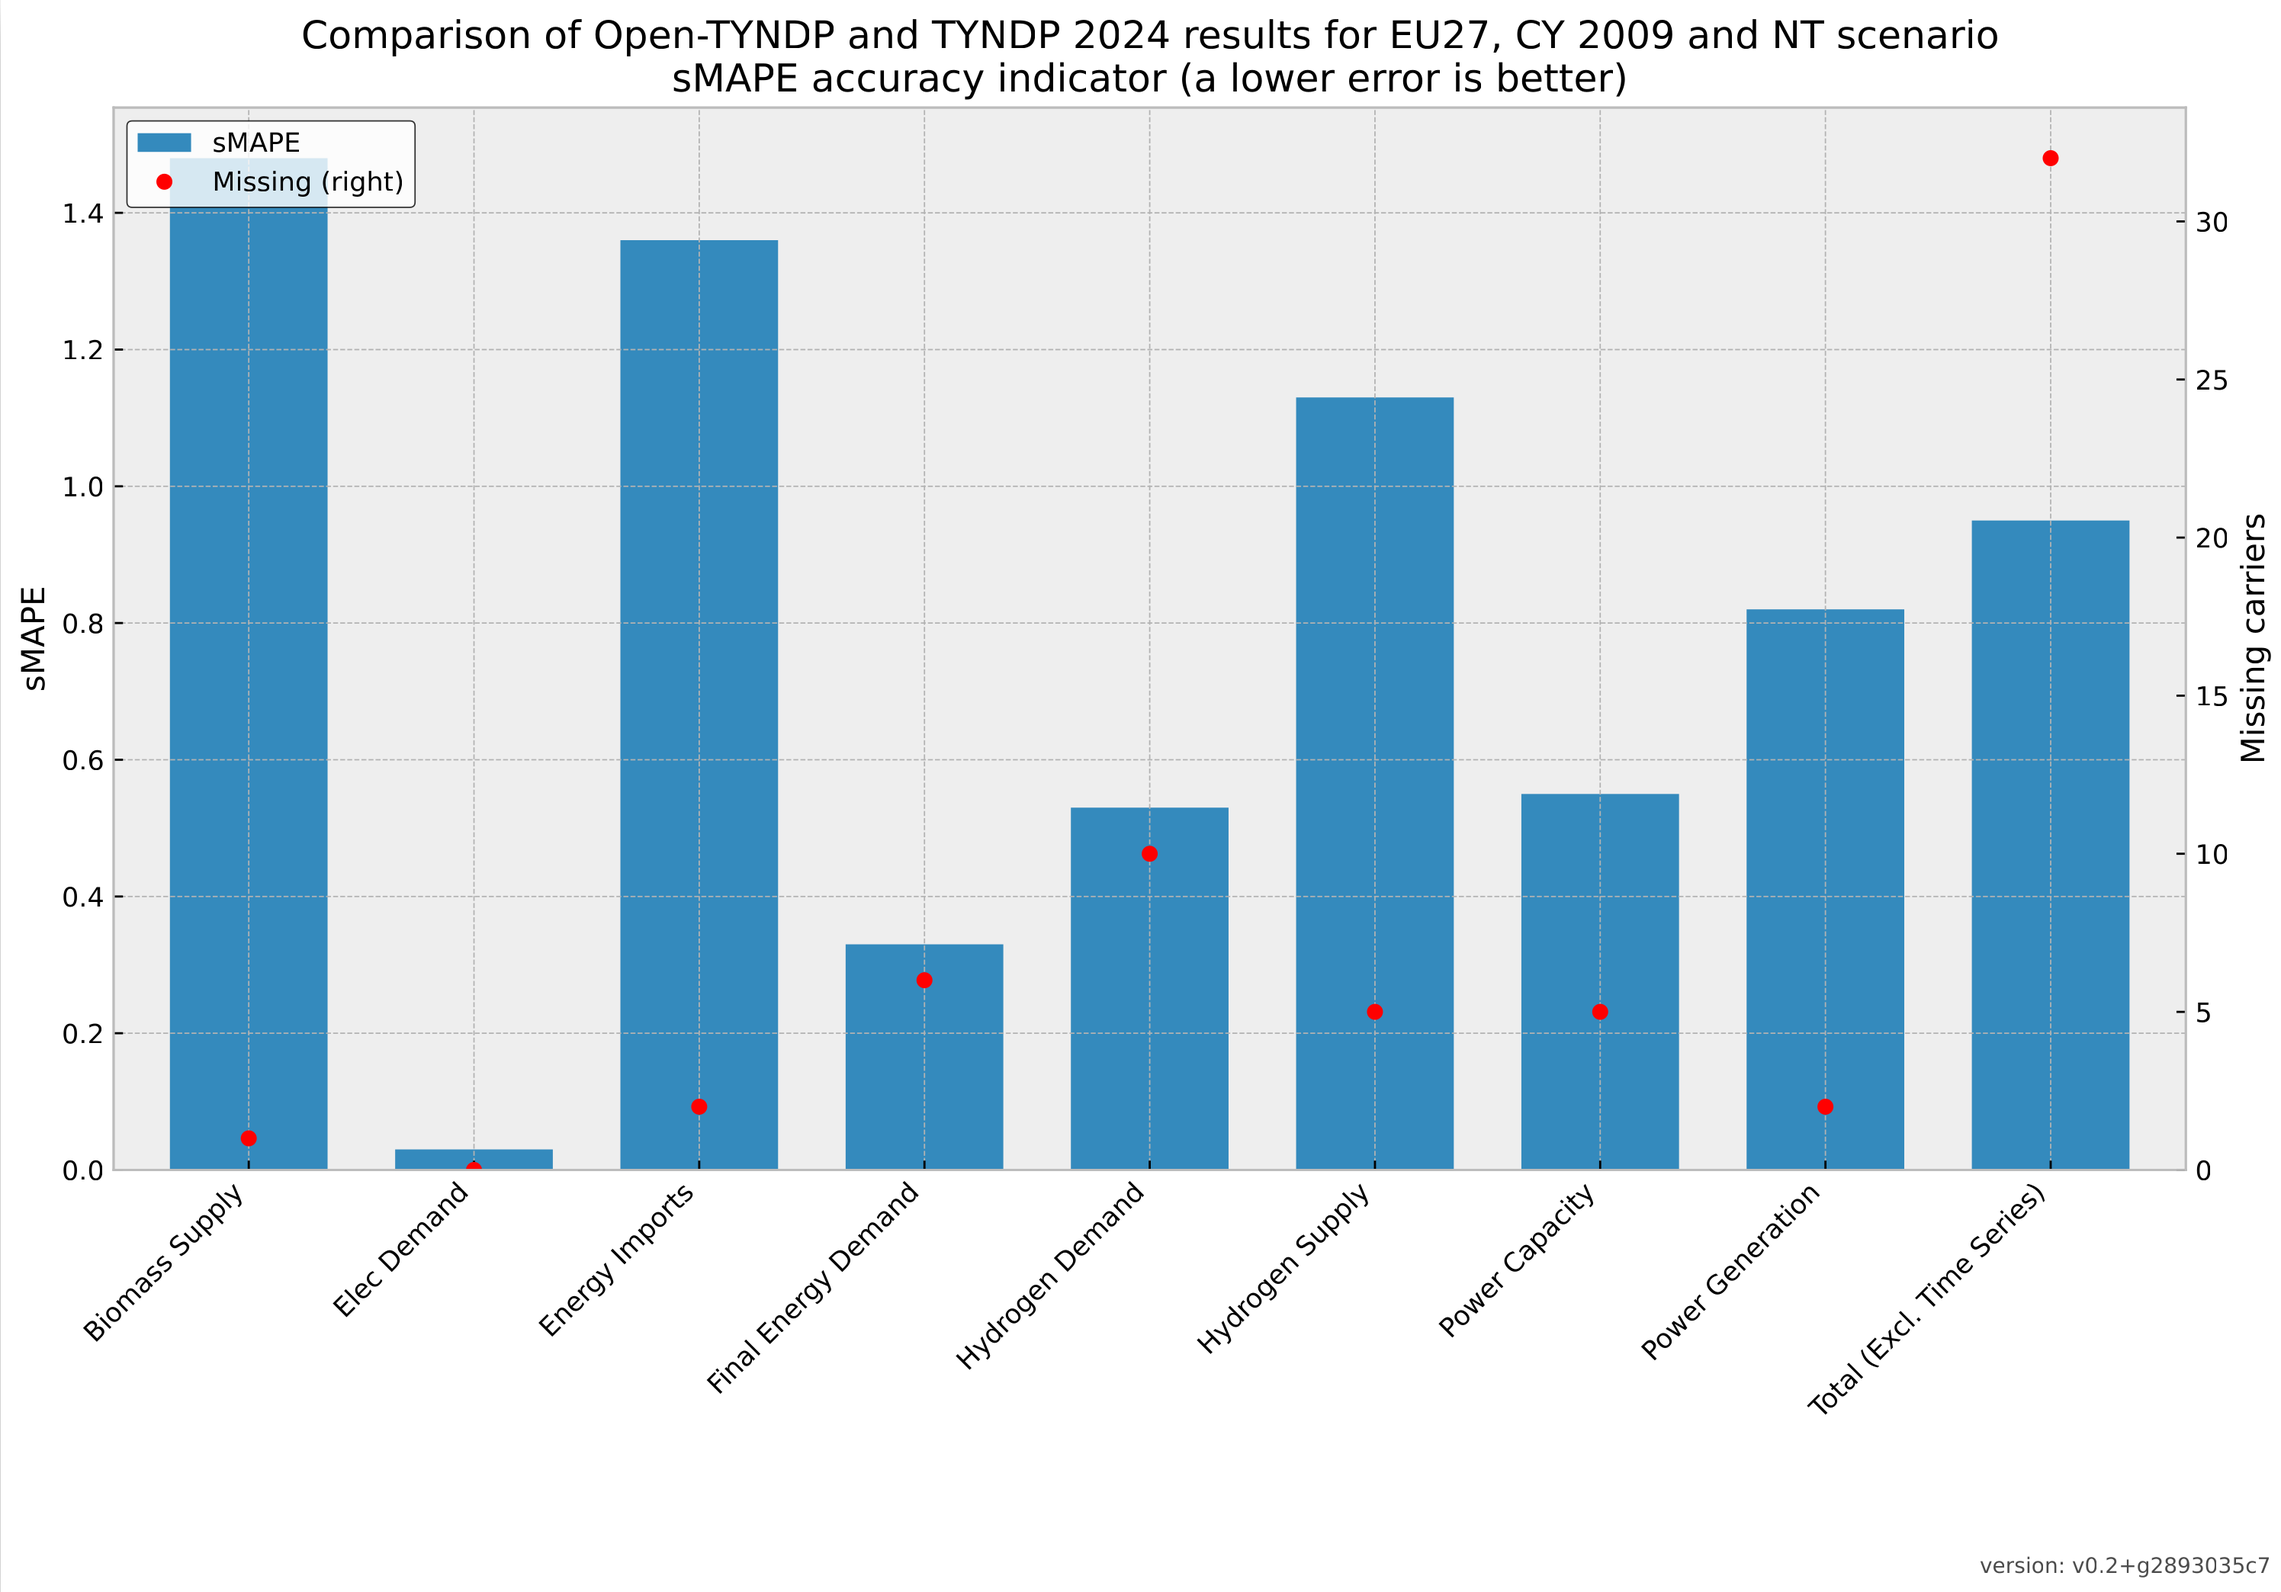
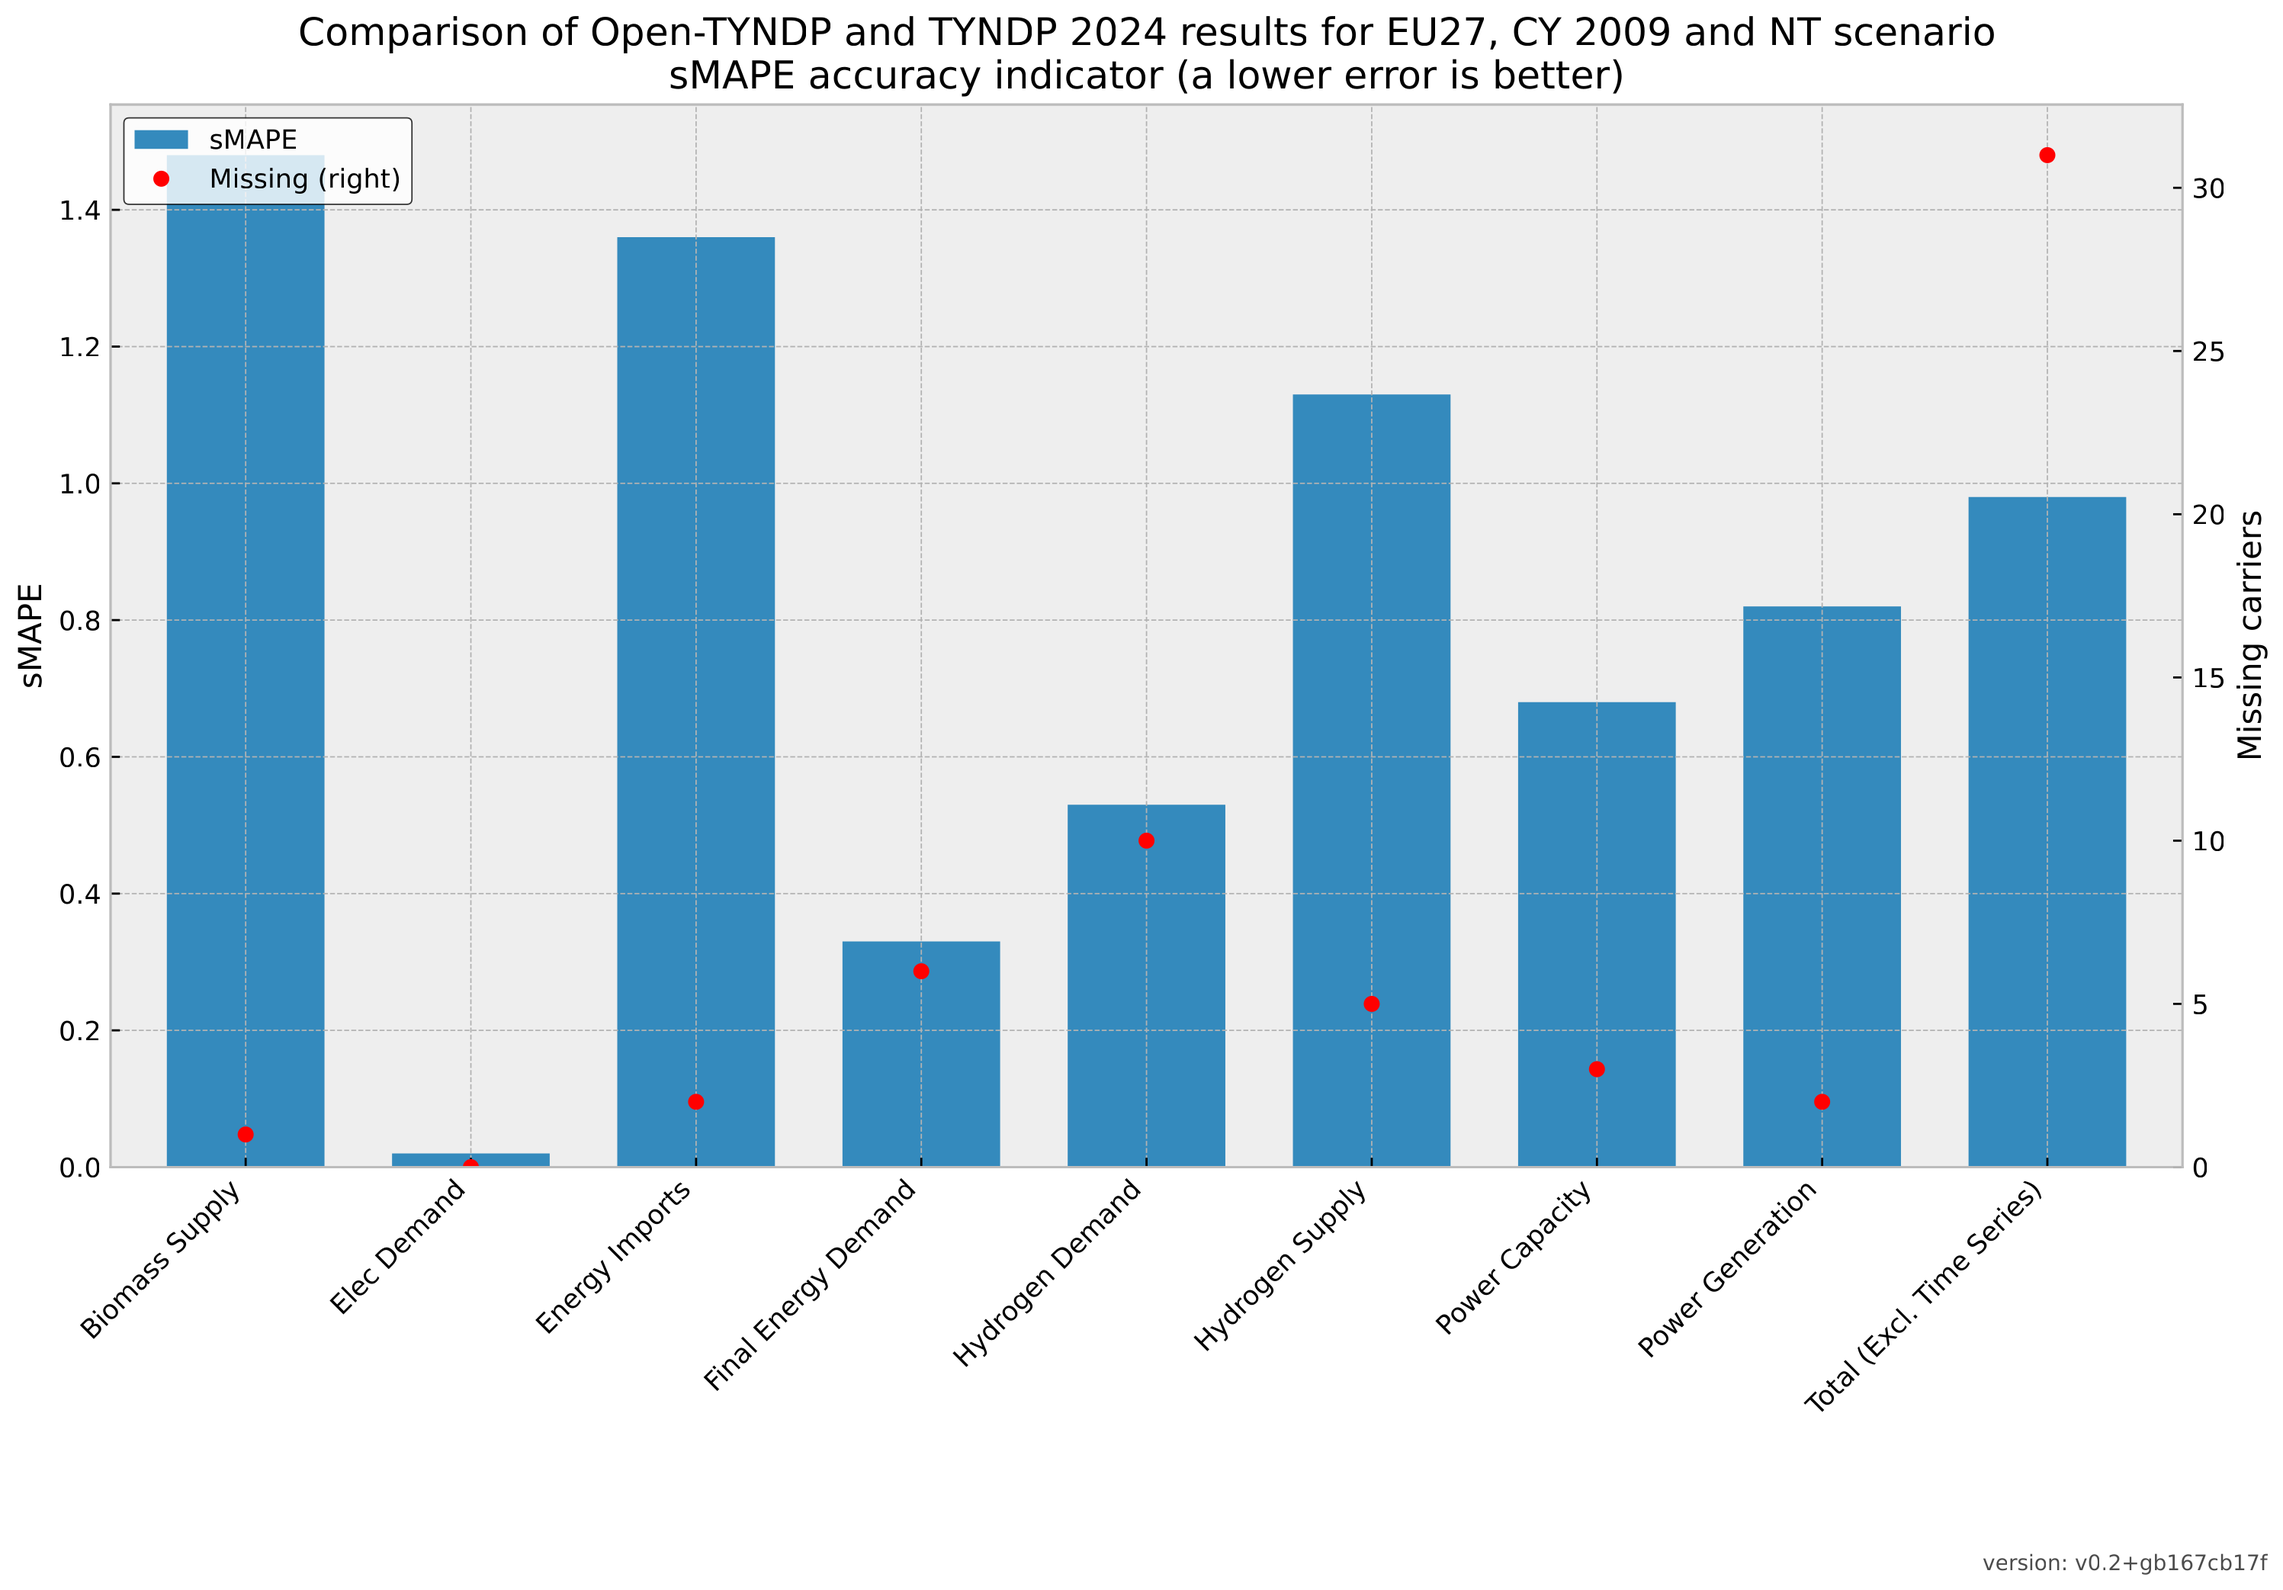
doc: update figures and focus on NT scenario

diff --git a/doc/benchmarking.rst b/doc/benchmarking.rst
@@ -81,50 +81,52 @@ Outputs
 .. warning::
     Open-TYNDP is under active development and is not yet feature-complete. The current `development status <https://open-tyndp.readthedocs.io/en/latest/index.html#development-status>`__ and the general `Limitations <https://open-tyndp.readthedocs.io/en/latest/limitations.html>`__ are important to understand before using the model. The following outputs are presented for illustrative purposes and do not reflect the quality of the results.
 
-Example of indicators extracted from `power_generation_s_all__all_years.csv` for DE scenario with 720SEG:
+Example of indicators extracted from `power_generation_s_all__all_years.csv` for NT scenario with 45SEG:
 
 ================================  =====  =====  ======  =====  ==============  ==================
 Carrier                           sMPE   sMAPE  sMdAPE  RMSLE  Growth Error    version
 ================================  =====  =====  ======  =====  ==============  ==================
-**Coal + other fossil**           0.93   1.07   1.07    18.64  2.65            v0.2+gca2f4f227
-**Hydrogen**                      -0.05  1.95   1.95    6.15   1.15            v0.2+gca2f4f227
-**Methane**                       1.54   1.54   1.54    2.03   -0.01           v0.2+gca2f4f227
-**Nuclear**                       -2.00  2.00   2.00    23.55  0.07            v0.2+gca2f4f227
-**Oil**                           2.00   2.00   2.00    24.57  -0.01           v0.2+gca2f4f227
-**Other non-renewable**           1.52   1.52   1.52    2.00   —               v0.2+gca2f4f227
-**Solar**                         -0.55  0.55   0.55    0.56   -0.01           v0.2+gca2f4f227
-**Wind offshore**                 0.10   0.10   0.10    0.11   -0.01           v0.2+gca2f4f227
-**Wind onshore**                  -1.56  1.56   1.56    2.19   -0.08           v0.2+gca2f4f227
-**Other renewable**               —      —      —       —      —               v0.2+gca2f4f227
-**Hydro (exc. pump storage)**     —      —      —       —      —               v0.2+gca2f4f227
-**Biofuels**                      —      —      —       —      —               v0.2+gca2f4f227
+**Battery**                       -2.00  2.00   2.00    13.72  0.49            v0.2+gb167cb17f
+**CHP and small thermal**         -1.67  1.67   1.67    2.83   -0.17           v0.2+gb167cb17f
+**Coal + other fossil**           0.56   0.56   0.56    0.59   -0.03           v0.2+gb167cb17f
+**Hydro and pumped storage**      -0.16  0.16   0.16    0.17   -0.01           v0.2+gb167cb17f
+**Hydrogen**                      -1.71  1.71   1.71    12.21  1.54            v0.2+gb167cb17f
+**Methane**                       0.20   0.20   0.20    0.27   0.03            v0.2+gb167cb17f
+**Nuclear**                       -0.81  0.81   0.81    0.97   -0.07           v0.2+gb167cb17f
+**Oil**                           -0.08  0.27   0.27    0.29   0.05            v0.2+gb167cb17f
+**Solar**                         -0.05  0.05   0.05    0.05   -0.00           v0.2+gb167cb17f
+**Wind offshore**                 -0.00  0.00   0.00    0.00   0.00            v0.2+gb167cb17f
+**Wind onshore**                  -0.05  0.05   0.05    0.06   -0.00           v0.2+gb167cb17f
+**Demand shedding**               —      —      —       —      —               v0.2+gb167cb17f
+**Small scale res**               —      —      —       —      —               v0.2+gb167cb17f
+**Biofuels**                      —      —      —       —      —               v0.2+gb167cb17f
 ================================  =====  =====  ======  =====  ==============  ==================
 
-Example of figure created for the final energy demand for DE scenario in 2040 with 720SEG:
+Example of figure created for the final energy demand for NT scenario in 2030 with 45SEG:
 
-.. image:: img/tyndp/benchmarking_fed_DE_2040.png
+.. image:: img/tyndp/benchmarking_fed_NT_2030.png
 
-Example of figure created for the generation profiles for DE scenario in 2040 with 720SEG:
+Example of figure created for the generation profiles for DE scenario in 2040 with 45SEG:
 
 .. image:: img/tyndp/benchmarking_gen_profiles_DE_2040.png
 
-Example of indicators extracted from `kpis_eu27_s_all__all_years.csv` for DE scenario with 720SEG:
+Example of indicators extracted from `kpis_eu27_s_all__all_years.csv` for NT scenario with 45SEG:
 
 ===============================  =====  =====  ======  =====  ============  =======  ==================
 Table                            sMPE   sMAPE  sMdAPE  RMSLE  Growth Error  Missing  version
 ===============================  =====  =====  ======  =====  ============  =======  ==================
-**Final energy demand**          -0.57  0.69   0.61    1.79   0.00          3        v0.2+gca2f4f227
-**Electricity demand**           0.56   0.56   0.64    0.66   0.02          2        v0.2+gca2f4f227
-**Methane demand**               0.39   0.43   0.38    0.60   0.00          6        v0.2+gca2f4f227
-**Hydrogen demand**              -0.77  1.10   1.00    4.76   0.00          7        v0.2+gca2f4f227
-**Power capacity**               -0.41  0.83   0.67    2.95   -0.01         5        v0.2+gca2f4f227
-**Power generation**             0.14   1.36   1.55    13.52  -0.01         4        v0.2+gca2f4f227
-**Methane supply**               -0.95  1.72   2.00    11.94  -0.02         3        v0.2+gca2f4f227
-**Hydrogen supply**              -0.24  1.18   1.63    11.61  -0.03         3        v0.2+gca2f4f227
-**Biomass supply**               -0.45  0.45   0.45    0.46   0.01          0        v0.2+gca2f4f227
-**Energy imports**               -0.16  1.50   1.92    19.00  0.02          2        v0.2+gca2f4f227
-**Generation profiles**          -0.41  1.50   1.96    12.57  —             11       v0.2+gca2f4f227
-**Total (excl. time series)**    -0.30  1.12   1.15    6.83   0.00          23       v0.2+gca2f4f227
+**Final energy demand**          -0.20  0.33   0.23    0.45   0.01          6        v0.2+gb167cb17f
+**Electricity demand**           0.02   0.02   0.02    0.03   0.00          0        v0.2+gb167cb17f
+**Methane demand**               —      —      —       —      —             NA       v0.2+gb167cb17f
+**Hydrogen demand**              -0.53  0.53   0.52    0.72   —             10       v0.2+gb167cb17f
+**Power capacity**               -0.53  0.68   0.36    5.61   -0.01         3        v0.2+gb167cb17f
+**Power generation**             -0.13  0.82   0.67    3.97   -0.01         2        v0.2+gb167cb17f
+**Methane supply**               —      —      —       —      —             NA       v0.2+gb167cb17f
+**Hydrogen supply**              -0.76  1.13   1.01    9.60   -0.00         5        v0.2+gb167cb17f
+**Biomass supply**               -1.48  1.48   1.48    4.43   0.51          1        v0.2+gb167cb17f
+**Energy imports**               -1.34  1.36   2.00    27.07  0.14          2        v0.2+gb167cb17f
+**Generation profiles**          —      —      —       —      —             NA       v0.2+gb167cb17f
+**Total (excl. time series)**    -0.62  0.98   0.82    11.06  0.02          31       v0.2+gb167cb17f
 ===============================  =====  =====  ======  =====  ============  =======  ==================
 
 Example of summary figure created for DE scenario:
